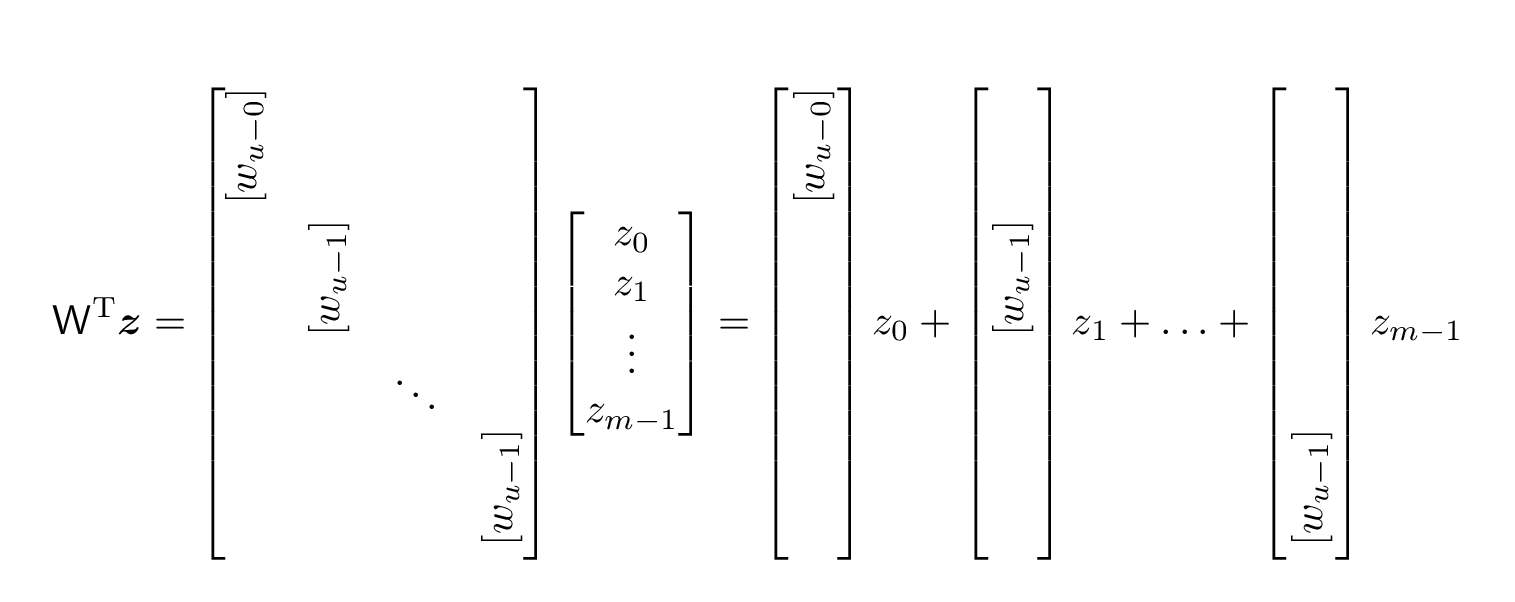
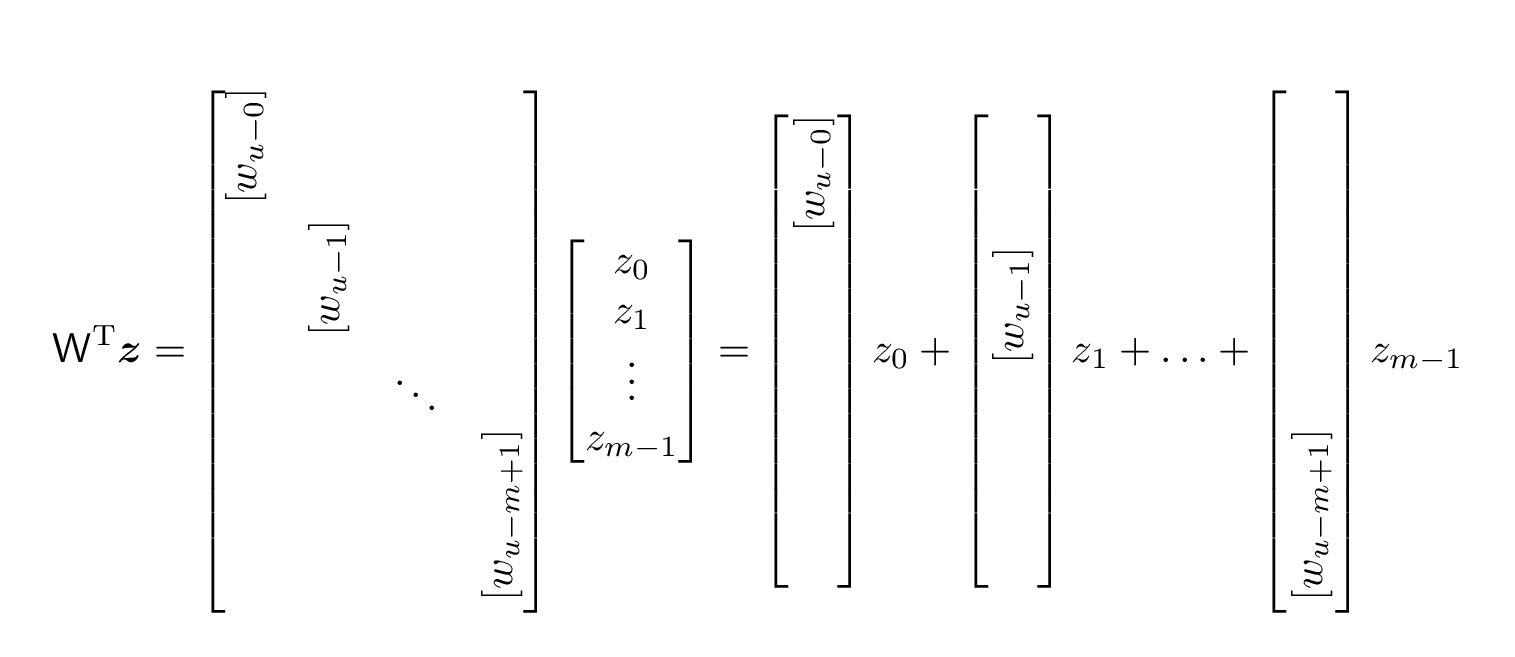
Update from https://github.com/astro-informatics/course_mlbd/commit/1ed45967b6522e238283d63afcc48aec533e4b67

diff --git a/Lecture15_Images/transpose_conv_eq.tex b/Lecture15_Images/transpose_conv_eq.tex
@@ -14,7 +14,7 @@
         \rotatebox{90}{$[w_{u-0}]$}  \\
         & \rotatebox{90}{$[w_{u-1}]$} \\
         && \ddots  \\
-        &&& \rotatebox{90}{$[w_{u-1}]$}
+        &&& \rotatebox{90}{$[w_{u-m+1}]$}
     \end{bmatrix} 
     \begin{bmatrix}
         z_{0} \\
@@ -45,7 +45,7 @@
         \phantom{\rotatebox{90}{$[w_{u-0}]$}} \\
         \phantom{\rotatebox{90}{$[w_{u-1}]$}} \\
         \phantom{\ddots}  \\
-        {\rotatebox{90}{$[w_{u-1}]$}}
+        {\rotatebox{90}{$[w_{u-m+1}]$}}
     \end{bmatrix} 
     z_{m-1}   
 \end{equation*}
